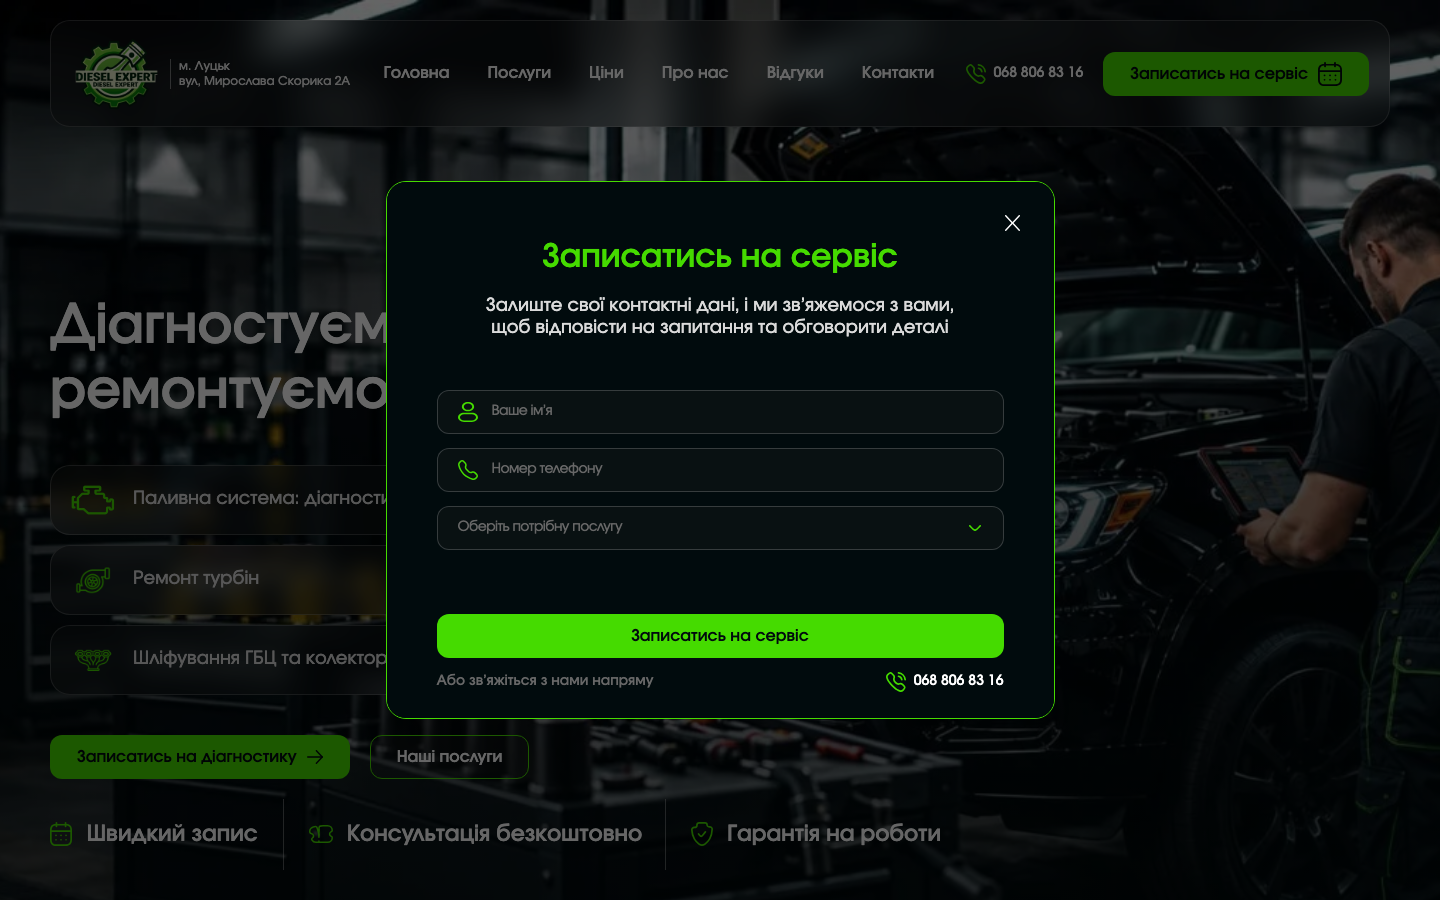
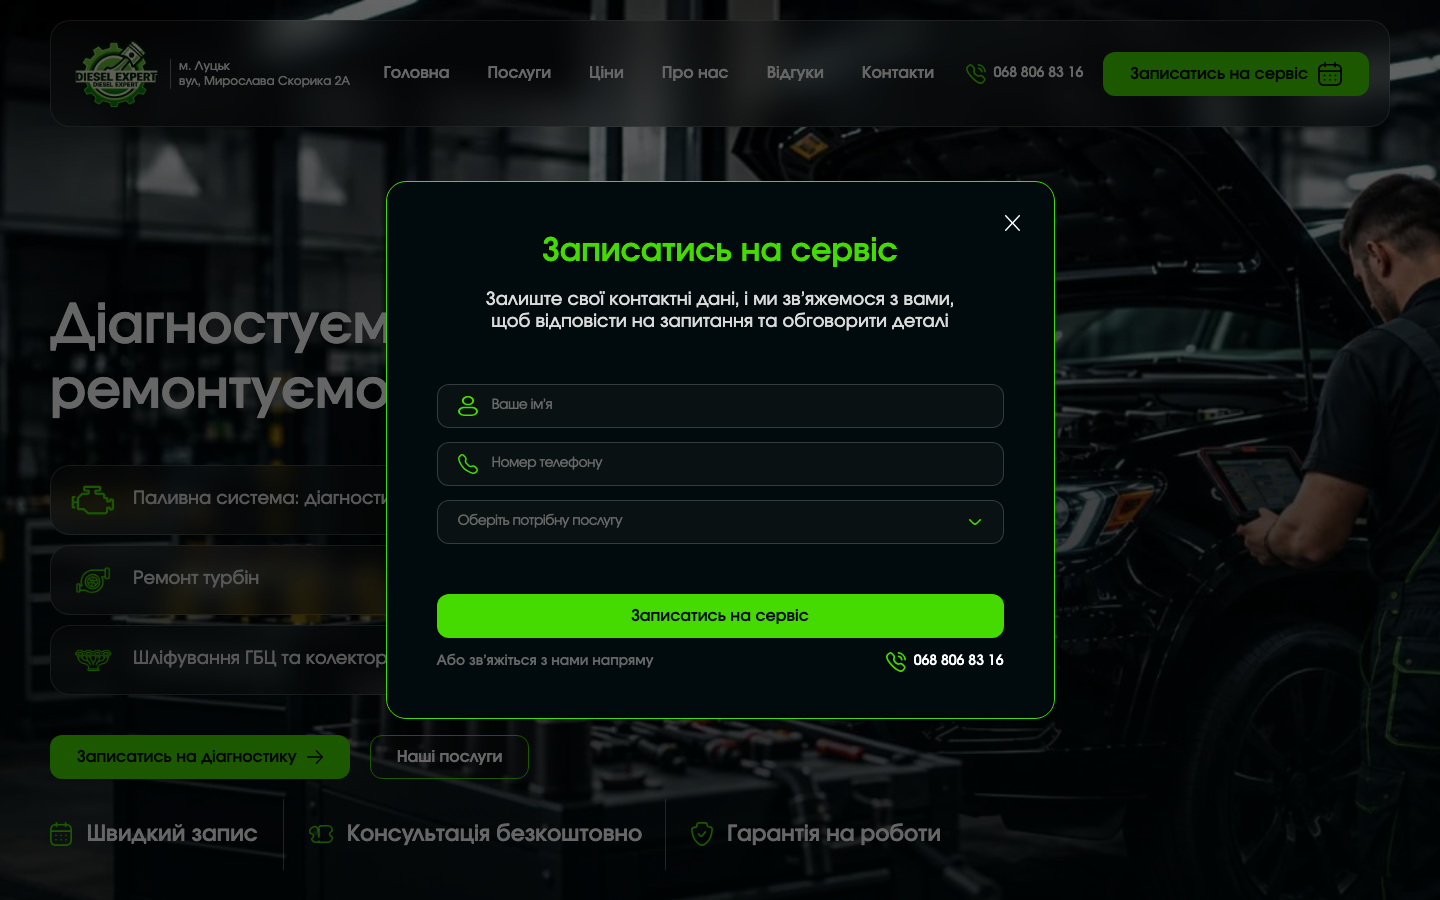
fix(modal): вирівняти ритм бронювання до Figma на 393 і 1440
Менший верхній padding і один відступ 50px між полями та кнопкою тримають «Або зв'яжіться» всередині панелі.

Changed region(s): [[0.2812, 0.6533, 0.7188, 0.7778], [0.3438, 0.2489, 0.6562, 0.3733], [0.3125, 0.4356, 0.6875, 0.5911]]

diff --git a/static/css/modals.css b/static/css/modals.css
@@ -28,7 +28,7 @@
   overflow: auto;
   -webkit-overflow-scrolling: touch;
   overscroll-behavior: contain;
-  padding: 48px 14px 20px;
+  padding: 29px 14px 20px;
   border: 1px solid var(--c-accent);
   border-radius: var(--r-card);
   background: var(--c-bg);
@@ -55,12 +55,14 @@
 }
 
 .modal .field {
+  height: 44px;
   border: 1px solid var(--c-glass-border);
 }
 
 .modal .field__control {
   min-height: 0;
-  height: 42px;
+  height: 100%;
+  max-height: 100%;
 }
 
 .modal__title {
@@ -90,6 +92,10 @@
 .modal__submit {
   width: 100%;
   margin-top: var(--s-lg);
+}
+
+.modal__form .modal__submit {
+  margin-top: calc(var(--s-lg) - var(--s-inner));
 }
 
 .modal__form + .modal__direct {
@@ -123,7 +129,7 @@
   .modal__panel {
     width: min(669px, calc(100% - 48px));
     height: 538px;
-    padding: 56px 50px 36px;
+    padding: 50px 50px 36px;
   }
 
   .modal__close {
